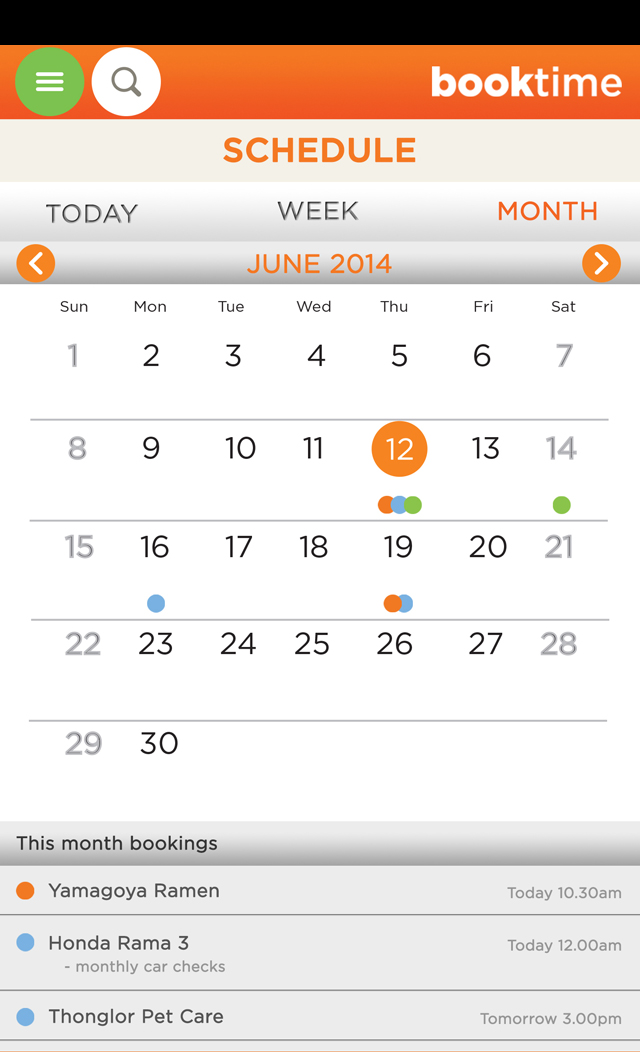
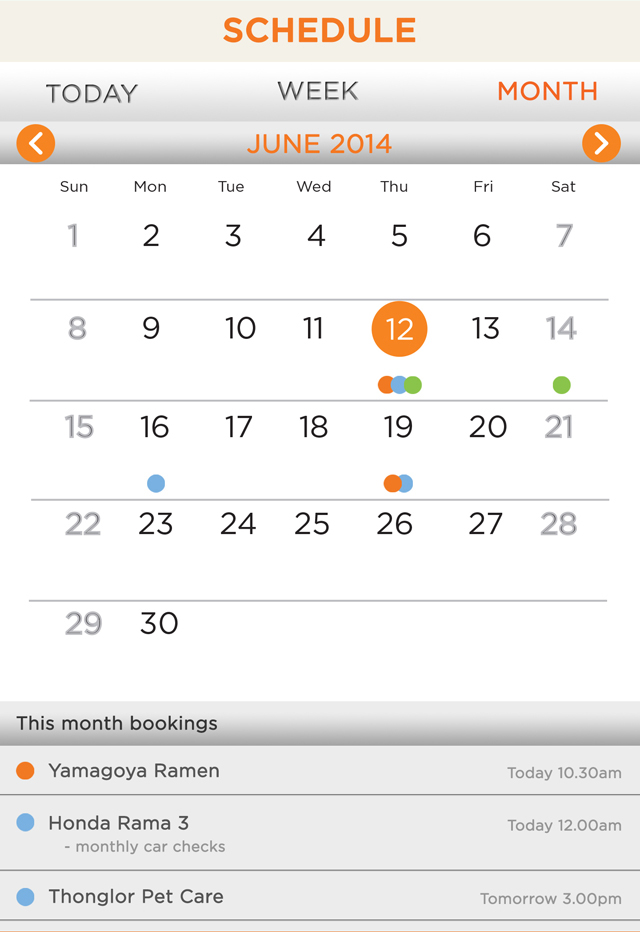
add main toolbar

diff --git a/MEAN/public/modules/home/views/home.client.view.html b/MEAN/public/modules/home/views/home.client.view.html
@@ -1,9 +1,6 @@
 <ons-page class="center" style="background: white;">
-    <ons-toolbar style="background: red;">
-        <div class="center">
-            <img src="res/screen/share/2x/02_mainpage_toolbar.jpg" style="width:100%;height:auto;">
-        </div>
-    </ons-toolbar> 
+
+    <header data-ng-include="'/modules/core/views/mainToolbar.client.view.html'"></header>
     <!--<div style="position:relative;" class="full-height">-->
     <ons-screen>
         <ons-scroller>

diff --git a/MEAN/public/modules/chat/views/chat.client.view.html b/MEAN/public/modules/chat/views/chat.client.view.html
@@ -1,4 +1,5 @@
 <ons-page class="center">
+    <header data-ng-include="'/modules/core/views/mainToolbar.client.view.html'"></header>
     <section data-ng-controller="ChatController" class="view-chat">
         <img src="res/screen/share/2x/06-2_chat2.jpg" class="full-width full-height">
         <div class="pannel-float container-fluid">

diff --git a/MEAN/public/modules/schedule/views/schedule.client.view.html b/MEAN/public/modules/schedule/views/schedule.client.view.html
@@ -1,3 +1,4 @@
 <ons-page class="center">
+    <header data-ng-include="'/modules/core/views/mainToolbar.client.view.html'"></header>
     <img src="res/screen/share/2x/08_schedule_month.jpg" style="width:100%;height:100%;">
 </ons-page>

diff --git a/MEAN/public/modules/notifications/views/notifications.client.view.html b/MEAN/public/modules/notifications/views/notifications.client.view.html
@@ -1,3 +1,4 @@
 <ons-page class="center">
+    <header data-ng-include="'/modules/core/views/mainToolbar.client.view.html'"></header>
     <img src="res/screen/share/2x/07_notifications.jpg" style="width:100%;height:100%;">
 </ons-page>

diff --git a/MEAN/public/modules/settings/views/setting.client.view.html b/MEAN/public/modules/settings/views/setting.client.view.html
@@ -1,3 +1,4 @@
 <ons-page class="center">
+    <header data-ng-include="'/modules/core/views/mainToolbar.client.view.html'"></header>
     <img src="res/screen/share/2x/11_settings1.jpg" style="width:100%;height:100%;">
 </ons-page>

diff --git a/MEAN/public/modules/core/views/mainToolbar.client.view.html b/MEAN/public/modules/core/views/mainToolbar.client.view.html
@@ -1,0 +1,5 @@
+<ons-toolbar style="background: red;">
+    <div class="center">
+        <img src="../../../res/screen/share/2x/02_mainpage_toolbar.jpg" style="width:100%;height:auto;">
+    </div>
+</ons-toolbar>
